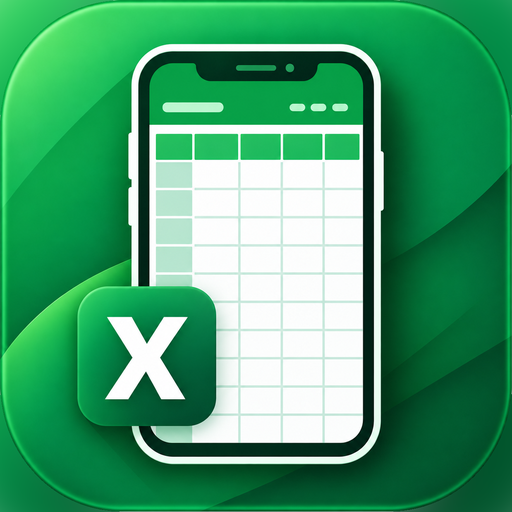
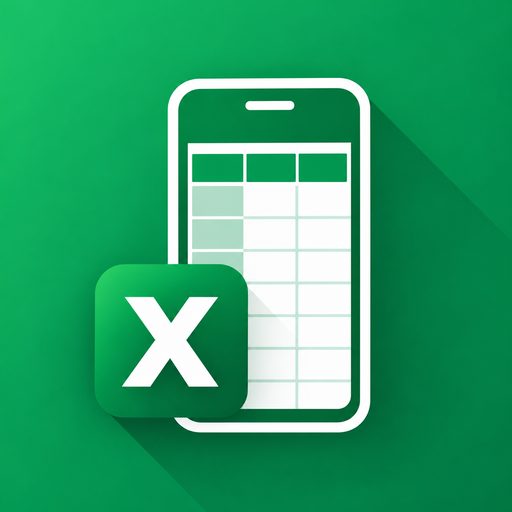
表示メニューを全画面ポップアップにし、アイコンを差し替え (v1.7.3)
- 右下 ✎ の表示メニューを列フィルターと同じ全画面ポップアップにした。
  本文はスクロール領域に入れ、ソフトキーボードが出ると同じ --kb の
  仕組みでキーボードの上まで縮む（検索欄が隠れない）。
  全画面のもとでは裏の表示が見えないため、表示方法を選んだら
  メニューを閉じて結果がすぐ分かるようにした。
- 全画面パネルの指定を .panel.cf から共通の .panel.full に整理。
- アプリアイコン・ファビコンを新しい画像に差し替え。
  icon-32 / 180 / 192 / 512 は元画像をそのまま縮小、
  icon-512-maskable は中身を 80% に収め、周囲は元画像の対角
  グラデーションを当てはめて外へ延長した（継ぎ目の色差は最大 3/255、
  セーフゾーン外に前景なし）。favicon.ico は 16/32/48 を同梱。
  リポジトリ内の画像はこの 6 つだけで、ほかに古いアイコンは残っていない。
- 列フィルターが空のときの「フィルターなし」の字が大きすぎたのを修正。

Claude-Session: https://claude.ai/code/session_011Co8RFdRoW7Ryk9hcMULXt

diff --git a/index.html b/index.html
@@ -1,5 +1,5 @@
 <!doctype html>
-<html lang="ja" data-ver="1.7.2">
+<html lang="ja" data-ver="1.7.3">
 <head>
   <meta charset="utf-8" />
   <meta name="viewport" content="width=device-width, initial-scale=1, viewport-fit=cover, maximum-scale=1, user-scalable=no" />
@@ -15,7 +15,7 @@
   <link rel="icon" type="image/png" sizes="32x32" href="icons/icon-32.png" />
   <link rel="icon" type="image/png" sizes="192x192" href="icons/icon-192.png" />
   <link rel="apple-touch-icon" sizes="180x180" href="icons/icon-180.png" />
-  <link rel="stylesheet" href="css/app.css?v=1.7.2" />
+  <link rel="stylesheet" href="css/app.css?v=1.7.3" />
 </head>
 <body>
   <svg width="0" height="0" style="position:absolute" aria-hidden="true">
@@ -121,9 +121,10 @@
 
   <!-- bottom: view menu (from FAB) -->
   <div class="sheet-bg" id="viewMenuBg" hidden></div>
-  <div class="panel" id="viewMenu" hidden>
+  <div class="panel full" id="viewMenu" hidden>
     <div class="grip"></div>
     <div class="panel-title"><h2>表示メニュー</h2><button class="iconbtn" id="viewMenuClose" aria-label="閉じる"><svg><use href="#i-x"/></svg></button></div>
+    <div class="panel-scroll">
     <div class="psec-row"><div class="psec">分割ビュー<small class="psub">上下 2 画面に別のシートを表示</small></div><button class="switch" id="splitSw"></button></div>
     <div class="seg wide" id="paneSeg" hidden></div>
     <div class="psec-row"><div class="psec" id="viewSecLabel">表示方法</div><button class="linkbtn" id="swapPanes" hidden>上下を入れ替え</button></div>
@@ -139,6 +140,7 @@
     <div class="psec-row" id="ltHead" hidden><div class="psec">発注L/T フィルター<small class="psub" id="ltDesc">発注L/T×2（営業日）以内に所要・発注がない品番を隠す</small></div><button class="switch" id="ltSw"></button></div>
     <div class="psec-row" id="colsHead" hidden><div class="psec">表の列（表示/非表示）</div><button class="linkbtn" id="colsReset">初期状態に戻す</button></div>
     <div class="collist" id="colsList" hidden></div>
+    </div>
   </div>
 
   <!-- bottom: settings -->
@@ -161,7 +163,7 @@
 
   <!-- bottom: column filter (Excel-like) -->
   <div class="sheet-bg" id="cfBg" hidden></div>
-  <div class="panel cf" id="cf" hidden>
+  <div class="panel full cf" id="cf" hidden>
     <div class="grip"></div>
     <div class="panel-title"><h2 id="cfTitle">フィルター</h2><button class="iconbtn" id="cfClose" aria-label="閉じる"><svg><use href="#i-x"/></svg></button></div>
     <label class="search cf-search"><svg><use href="#i-search"/></svg><input id="cfSearch" type="search" placeholder="値を検索" autocomplete="off" /></label>
@@ -244,9 +246,9 @@
   </div><!-- /root -->
 
   <script src="vendor/jszip.min.js"></script>
-  <script src="js/numfmt.js?v=1.7.2"></script>
-  <script src="js/xlsx-lite.js?v=1.7.2"></script>
-  <script src="js/xlsx-write.js?v=1.7.2"></script>
-  <script src="js/app.js?v=1.7.2"></script>
+  <script src="js/numfmt.js?v=1.7.3"></script>
+  <script src="js/xlsx-lite.js?v=1.7.3"></script>
+  <script src="js/xlsx-write.js?v=1.7.3"></script>
+  <script src="js/app.js?v=1.7.3"></script>
 </body>
 </html>

diff --git a/css/app.css b/css/app.css
@@ -548,11 +548,13 @@ body.rot90, body.rotm90 { --sat: 0px; --sab: 0px; --sal: 0px; --sar: 0px; }
 .grid td.fh.filt { background: var(--green-mid) !important; color: var(--green-deep); }
 .grid td.fh .fi { position: absolute; right: 2px; bottom: 2px; width: 12px; height: 12px; color: var(--green-deep); opacity: .9; }
 .grid td.fh .fi svg { width: 12px; height: 12px; }
-.panel.cf { top: 0; max-height: none; border-radius: 0; display: flex; flex-direction: column;
+.panel.full { top: 0; max-height: none; border-radius: 0; overflow: hidden; display: flex; flex-direction: column;
   padding: calc(var(--sat) + 6px) calc(var(--sar) + 14px) calc(var(--sab) + 12px) calc(var(--sal) + 14px); }
-.panel.cf .grip { display: none; }
-.panel.cf .panel-title { flex: none; padding-bottom: 8px; margin-bottom: 8px; border-bottom: 1px solid var(--line); }
-.panel.cf .panel-title h2 { font-size: 17px; overflow: hidden; text-overflow: ellipsis; white-space: nowrap; }
+.panel.full .grip { display: none; }
+.panel.full .panel-title { flex: none; padding-bottom: 8px; margin-bottom: 8px; border-bottom: 1px solid var(--line); }
+.panel.full .panel-title h2 { font-size: 17px; overflow: hidden; text-overflow: ellipsis; white-space: nowrap; }
+.panel-scroll { flex: 1 1 auto; min-height: 0; overflow-y: auto; overscroll-behavior: contain; }
+.panel-scroll > .psec:first-child, .panel-scroll > .psec-row:first-child .psec { margin-top: 0; }
 .cf-status { flex: none; font-size: 11.5px; color: var(--ink-3); padding: 0 2px 6px; }
 .cf-status b { color: var(--green-dark); font-variant-numeric: tabular-nums; }
 .panel.cf .cf-search { flex: none; height: 40px; margin-bottom: 8px; }
@@ -576,6 +578,7 @@ body.rot90, body.rotm90 { --sat: 0px; --sab: 0px; --sal: 0px; --sar: 0px; }
 .cf-clear { flex: 0 0 96px; padding: 12px; border-radius: 11px; border: 1px solid var(--line-2); font-weight: 700; color: var(--ink-2); background: var(--surface); }
 .cf-apply { flex: 2 1 0; padding: 12px; border-radius: 11px; background: var(--green); color: #fff; font-weight: 700; }
 .fpills { display: flex; flex-wrap: wrap; gap: 6px; }
+.fpills .psub { font-size: 11.5px; color: var(--ink-3); }
 .fpills .fp { display: inline-flex; align-items: center; gap: 6px; padding: 5px 8px 5px 11px; border-radius: 999px; background: var(--green-light); color: var(--green-deep); font-size: 12.5px; font-weight: 600; }
 .fpills .fp b { font-weight: 800; }
 .fpills .fp .x { width: 20px; height: 20px; border-radius: 50%; display: inline-flex; align-items: center; justify-content: center; background: rgba(0,0,0,.08); }
@@ -630,7 +633,7 @@ body.rot90, body.rotm90 { --sat: 0px; --sab: 0px; --sal: 0px; --sar: 0px; }
 
 /* ---------- panels: percentage heights so they survive CSS rotation ---------- */
 .panel { max-height: 84%; }
-.panel.cf { max-height: none; }
+.panel.full { max-height: none; }
 
 /* ---------- landscape layout ---------- */
 body.land .appbar-row { min-height: 34px; }

diff --git a/js/app.js b/js/app.js
@@ -2,7 +2,7 @@
 (function () {
   'use strict';
 
-  const APP_VERSION = '1.7.2';
+  const APP_VERSION = '1.7.3';
   const APP_DATE = '2026-09-14';
   const START_SHEET = '直近';
   const BOUNDARY_SHEET = '所要(調整)'; // sheets to the right of this are targets
@@ -2697,6 +2697,8 @@
         renderViewSeg(m);
         renderColsList(m);
         render();
+        // 全画面メニューだと裏の表示が見えないので、表示方法を選んだら閉じる
+        closePanel('viewMenu', 'viewMenuBg');
       });
       seg.appendChild(b);
     }

diff --git a/sw.js b/sw.js
@@ -2,7 +2,7 @@
  * - Navigations (index.html) are network-first so a new release is picked up immediately.
  * - Versioned assets (?v=) are cache-first; the version query guarantees HTML and JS never mix.
  */
-const VERSION = '1.7.2';
+const VERSION = '1.7.3';
 const CACHE = 'orderviewer-' + VERSION;
 const V = '?v=' + VERSION;
 const ASSETS = [
